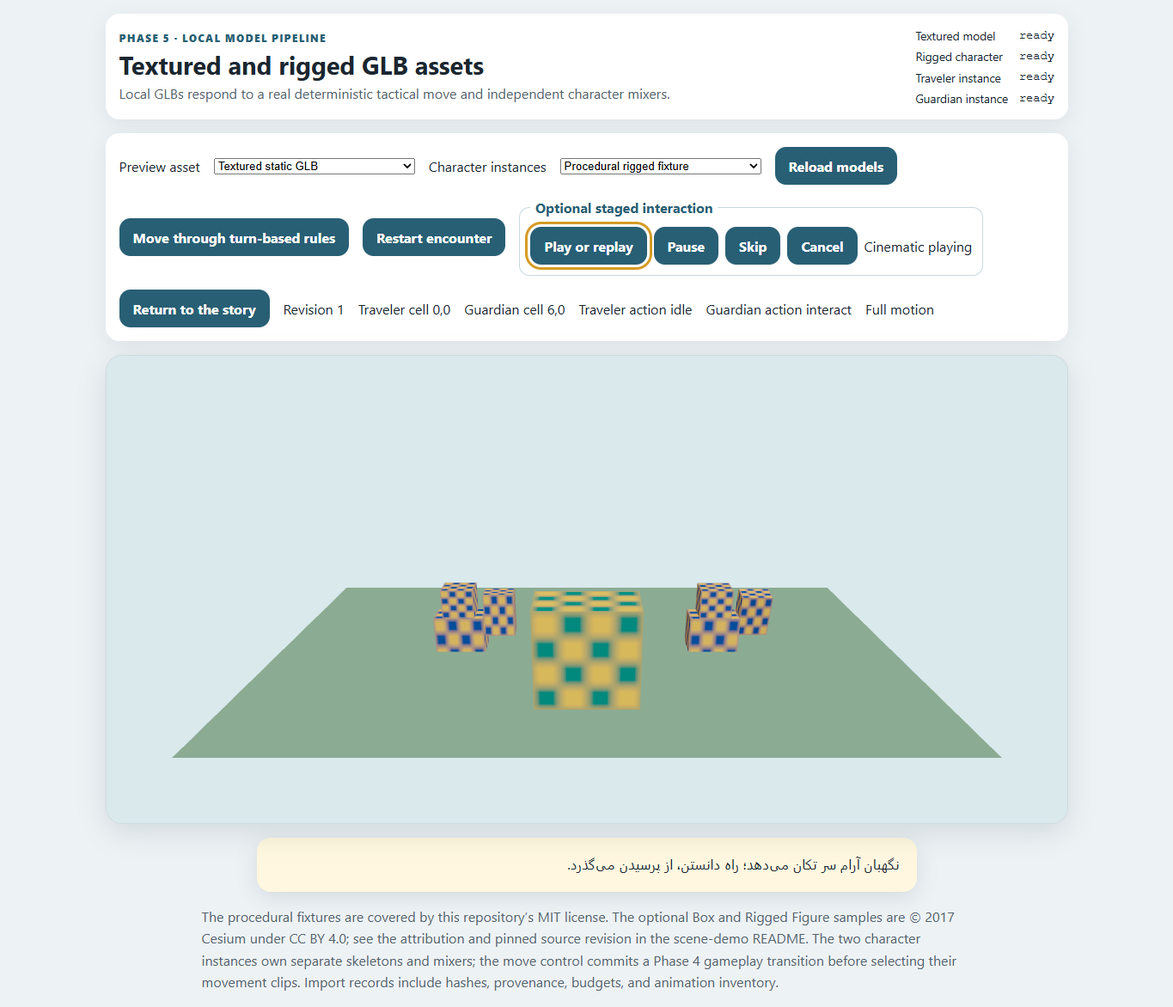
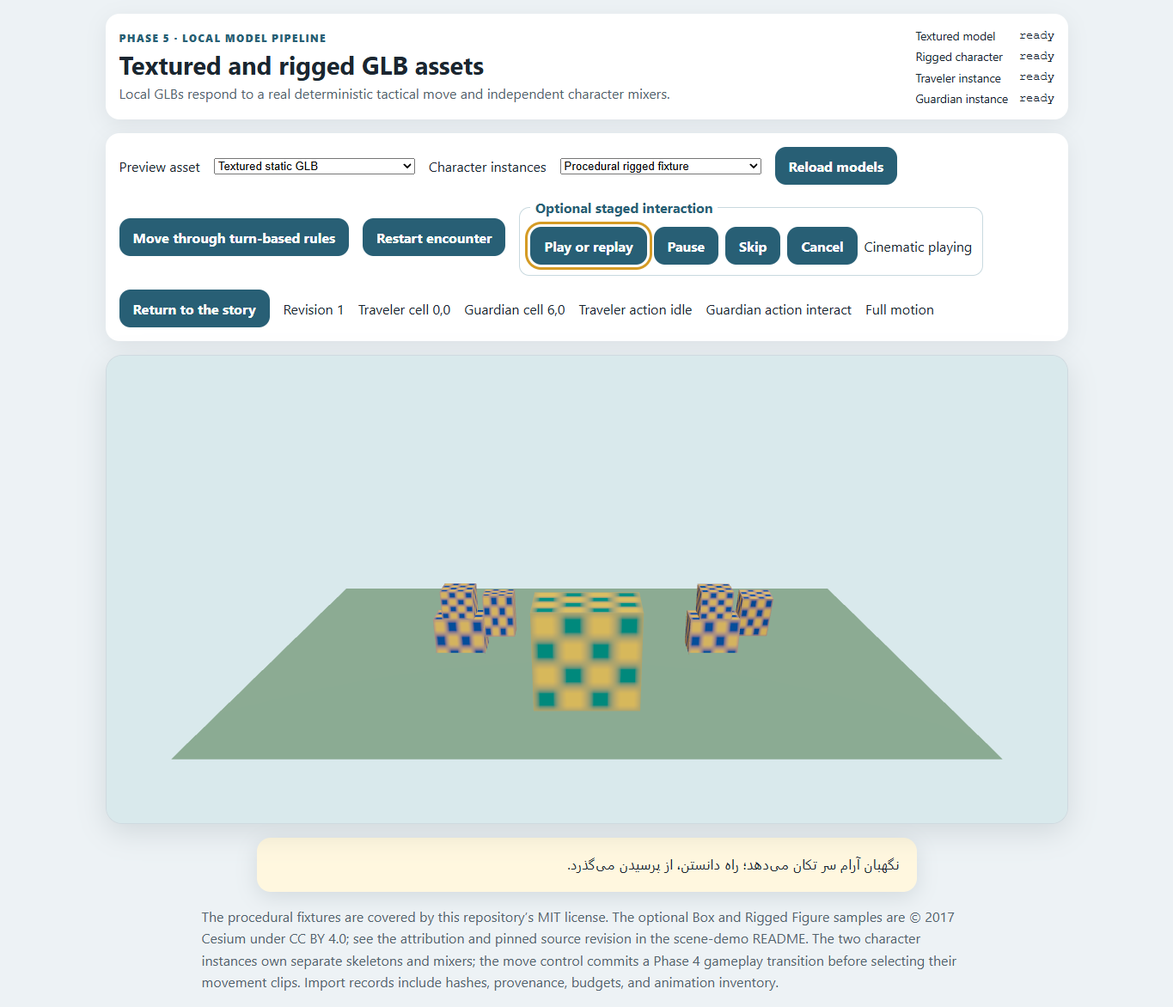
docs(framework): record Phase 5 acceptance evidence

Changed region(s): [[0.3692, 0.5836, 0.5538, 0.6451], [0.5846, 0.5836, 0.6769, 0.6451], [0.4615, 0.6758, 0.5231, 0.7065]]

diff --git a/docs/FRAMEWORK-ROADMAP.md b/docs/FRAMEWORK-ROADMAP.md
@@ -222,23 +222,27 @@ Dependency direction:
 
 ### Roadmap and gates
 
-| Phase                         | Status   | Deliverable                                                                                                                                                                                                                   | Prerequisite and exit evidence                                                                                                                                                                                    | Evidence                                                                                                                |
-| ----------------------------- | -------- | ----------------------------------------------------------------------------------------------------------------------------------------------------------------------------------------------------------------------------- | ----------------------------------------------------------------------------------------------------------------------------------------------------------------------------------------------------------------- | ----------------------------------------------------------------------------------------------------------------------- |
-| 1. Reusable core              | Complete | Build, test, version, pack and document the independent package. Migrate the app only after installed-tarball gate.                                                                                                           | All criteria in .plans/phase-1-library-extraction.md pass.                                                                                                                                                        | [PR #110](https://github.com/hmmftg/game-kids-turn-based-rpg/pull/110)                                                  |
-| 2. World/renderer             | Complete | Validate scene registration, map transitions, cameras, loading, runtime projection and resource lifecycle in `examples/scene-demo/`, a second 3D consumer that installs the core tarball. Renderer contracts remain deferred. | Pass isolated tarball install, type/unit/build checks and Chromium lifecycle smoke; prove two scenes, same-canvas transitions, load cancellation/failure, settled demand rendering, context recovery and cleanup. | [PR #111](https://github.com/hmmftg/game-kids-turn-based-rpg/pull/111)                                                  |
-| 3. Narrative/quests           | Complete | Implement the optional `waypoint-rpg-narrative` package and a Persian branching-story proof in the independent 3D consumer. Keep storage, scenes, movement, UI, and authored content consumer-owned.                          | P3.1–P3.6 gates pass: pure deterministic runtime, independent tarball, two endings, persisted scene consequence, reset/recovery safety, and application compatibility. This is not combat or a general renderer.  | [PR #113](https://github.com/hmmftg/game-kids-turn-based-rpg/pull/113)                                                  |
-| 4. Gameplay modules           | Complete | Add optional progression, inventory, equipment, abilities, status effects, tactical combat and enemy behavior from consumer needs. Keep real-time action combat independent.                                                  | Module tests pass; narrative remains independently consumable without a gameplay dependency.                                                                                                                      | [PR #116](https://github.com/hmmftg/game-kids-turn-based-rpg/pull/116); [29 gameplay tests](../packages/gameplay/test/) |
-| 5. Animation/cinematics       | Next     | Add a rig-preserving load path, per-instance skeleton/mixer, clips, blending, timelines, camera/dialogue staging, synchronized audio, effects and resource ownership.                                                         | 3D consumer proves cancellation, cleanup, reduced motion and idle behavior. Preserve the Kids RPG static GLB flow.                                                                                                | —                                                                                                                       |
-| 6. Developer tools            | Planned  | Add portable world, dialogue, quest, NPC, asset and timeline authoring after two consumers use relevant contracts.                                                                                                            | Both games can round-trip, validate and preview their own content. Keep Builder v1 compatible through transition.                                                                                                 | —                                                                                                                       |
-| 7. Shahnameh proof of concept | Planned  | Build خون سیاوش — فصل نخست: برگ خون with two environments, NPCs, branching dialogue, one meaningful moral choice, one battle, conditional world change, two outcomes and save/resume.                                         | Begin after the second 3D consumer validates rendering, narrative persistence and selected combat. Record packages used and omitted. Full editor tooling is optional.                                             | —                                                                                                                       |
+| Phase                         | Status   | Deliverable                                                                                                                                                                                                                   | Prerequisite and exit evidence                                                                                                                                                                                                           | Evidence                                                                                                                |
+| ----------------------------- | -------- | ----------------------------------------------------------------------------------------------------------------------------------------------------------------------------------------------------------------------------- | ---------------------------------------------------------------------------------------------------------------------------------------------------------------------------------------------------------------------------------------- | ----------------------------------------------------------------------------------------------------------------------- |
+| 1. Reusable core              | Complete | Build, test, version, pack and document the independent package. Migrate the app only after installed-tarball gate.                                                                                                           | All criteria in .plans/phase-1-library-extraction.md pass.                                                                                                                                                                               | [PR #110](https://github.com/hmmftg/game-kids-turn-based-rpg/pull/110)                                                  |
+| 2. World/renderer             | Complete | Validate scene registration, map transitions, cameras, loading, runtime projection and resource lifecycle in `examples/scene-demo/`, a second 3D consumer that installs the core tarball. Renderer contracts remain deferred. | Pass isolated tarball install, type/unit/build checks and Chromium lifecycle smoke; prove two scenes, same-canvas transitions, load cancellation/failure, settled demand rendering, context recovery and cleanup.                        | [PR #111](https://github.com/hmmftg/game-kids-turn-based-rpg/pull/111)                                                  |
+| 3. Narrative/quests           | Complete | Implement the optional `waypoint-rpg-narrative` package and a Persian branching-story proof in the independent 3D consumer. Keep storage, scenes, movement, UI, and authored content consumer-owned.                          | P3.1–P3.6 gates pass: pure deterministic runtime, independent tarball, two endings, persisted scene consequence, reset/recovery safety, and application compatibility. This is not combat or a general renderer.                         | [PR #113](https://github.com/hmmftg/game-kids-turn-based-rpg/pull/113)                                                  |
+| 4. Gameplay modules           | Complete | Add optional progression, inventory, equipment, abilities, status effects, tactical combat and enemy behavior from consumer needs. Keep real-time action combat independent.                                                  | Module tests pass; narrative remains independently consumable without a gameplay dependency.                                                                                                                                             | [PR #116](https://github.com/hmmftg/game-kids-turn-based-rpg/pull/116); [29 gameplay tests](../packages/gameplay/test/) |
+| 5. Animation/cinematics       | Complete | The independent 3D consumer imports static and genuinely rigged GLBs, runs per-instance/game-state animation, and stages an optional cancelable cinematic. Renderer integration remains example-owned.                        | Local assets and pinned external fixtures load without runtime network access; lifecycle/context recovery, reduced motion, screenshots, independent package consumers, Kids RPG asset/camera/PWA regressions, and `npm run verify` pass. | [Phase 5 execution evidence](../.plans/phase-5-model-animation-cinematics.md); [rendered previews](previews/phase5/)    |
+| 6. Developer tools            | Planned  | Add portable world, dialogue, quest, NPC, asset and timeline authoring after two consumers use relevant contracts.                                                                                                            | Both games can round-trip, validate and preview their own content. Keep Builder v1 compatible through transition.                                                                                                                        | —                                                                                                                       |
+| 7. Shahnameh proof of concept | Planned  | Build خون سیاوش — فصل نخست: برگ خون with two environments, NPCs, branching dialogue, one meaningful moral choice, one battle, conditional world change, two outcomes and save/resume.                                         | Begin after the second 3D consumer validates rendering, narrative persistence and selected combat. Record packages used and omitted. Full editor tooling is optional.                                                                    | —                                                                                                                       |
 
 This table is the source of truth for the generated README roadmap. Change a phase's status only when its exit criteria are met; after editing, run `npm run roadmap:sync`. Merging alone does not complete a phase.
 
 The five-game portfolio, asset catalog, capability matrix, execution dependencies, and release/evaluation rules live in `docs/PRODUCT-RELEASE-ROADMAP.md`. The current two-scene Garden sample and the Phase 4 scene-demo remain reference consumers, not portfolio releases. Proposed game names and stories remain proposals until approved.
 
-### Baseline evidence at Phase 5 planning
+### Phase 5 baseline and stabilization evidence
 
-Phase 4 merge `693aae689065d108e84b85a16c5651d625c29ab2` has successful Pages and roadmap-synchronization workflows. Its framework consumer and E2E shard 4 passed when inspected. E2E shards 1–3 were still running, so full post-merge E2E was not yet confirmed. The [Reference game screenshots workflow](https://github.com/hmmftg/game-kids-turn-based-rpg/actions/runs/45018058155) failed at step 5, **Check repository formatting**. Chromium installation, production build, screenshot capture, and gallery update were skipped. Track and diagnose this baseline independently before attributing a formatting failure to later documentation changes.
+The stabilization baseline was fetched `origin/main` at `1ae9946bd280caa6847e78d6a9b32180a3499ad8` (PR #119). Archived Actions run `45178399523` showed shards 1 and 3 failing the high-tier GLB exact-count assertion: the app correctly requested its 18-model high-tier warmup set while the test expected 7. Shards 2 and 4 passed. The same review identified a Node 22.0 gameplay-runtime smoke invocation that passed a snapshot where the codec requires a compiled definition, a stale Blood Leaf preview selector, and a roadmap workflow attempting to create a PR without permission. The local fixes are recorded in the Phase 5 execution plan; no post-fix GitHub run has been triggered because this branch was not pushed.
+
+The archived reference-screenshot workflow run [45018058155](https://github.com/hmmftg/game-kids-turn-based-rpg/actions/runs/45018058155) failed before browser setup at repository formatting. This was a pre-existing baseline issue, addressed by the earlier scoped formatting hygiene commits; it is separate from the PR #119 model-count regression. Roadmap synchronization remains protected-branch compatible: the default workflow emits a patch artifact and summary, with automatic PR creation only when repository owners explicitly enable `FRAMEWORK_ROADMAP_AUTOPR=true`. That live permission path is not verified from this local-only branch.
+
+Local acceptance on Node 22.23.5 now passes `npm run verify` (561 application tests, 15 core, 34 narrative, 29 gameplay, 9 model-import tests, all builds and package checks), all three installed package/scene consumer gates, the linked Vite development check, the production scene-demo browser suite, focused Kids RPG GLB and camera checks, and the PWA offline suite. The independent scene consumer uses pinned local GLB fixtures and produces source-rendered Chromium previews. The exact commands and limitations are recorded in `.plans/phase-5-model-animation-cinematics.md`. These results establish the implementation gates locally; remote CI remains pending a later PR run.
 
 ## Compatibility, policy and risks
 

diff --git a/.plans/phase-5-model-animation-cinematics.md b/.plans/phase-5-model-animation-cinematics.md
@@ -159,7 +159,7 @@ The implementation branch begins from the latest fetched `main`. Commit P5.0 thr
 - `npm run verify` passed after P5.0: all 506 application tests, core/narrative/gameplay package tests and builds, narrative tarball consumer, typechecks, content/assets/budget/deploy validation, and all three example builds.
 - `npm run framework:scene-consumer` passed the offline core+narrative tarball install, typecheck, unit tests, Vite build, and Chromium lifecycle smoke.
 - `npm run framework:watch:check` passed cold/warm linked builds, Vite's default linked-ESM resolution, multi-package HMR, error preservation, and recovery. No Vite resolver override is configured.
-- Phase 5 is marked In progress in the canonical roadmap. The contract intentionally remains private to the independent example until another consumer proves a stable renderer API.
+- At the P5.0 checkpoint, Phase 5 remained In progress and the adapter stayed private to the independent example. After the later milestones and stabilization gates below passed, the canonical roadmap was updated to Complete; no public renderer package was inferred from this single consumer.
 
 ### P5.1 — local model import and runtime loading
 
@@ -185,14 +185,25 @@ The implementation branch begins from the latest fetched `main`. Commit P5.0 thr
 - Added `src/presentation/timeline.ts` as a dependency-free example-side timeline definition compiler/player. It validates stable cue IDs, cue ordering, durations and camera/action/dialogue/audio cue data; execution is deterministic, cues are emitted once, and state supports play/replay, pause/resume, skip, and cancel. Authored cue objects and arrays are cloned/frozen; timeline state is transient and never writes narrative/gameplay state.
 - Added an actual R3F camera stage, an imported-guardian interaction clip, and a Persian RTL DOM dialogue cue to `?phase5=assets`. Keyboard-operable controls cover play/replay, pause/resume, skip and cancel. Cancellation restores camera framing and idle poses; Canvas unmount cancels the active sequence. Reduced motion applies all cues in order on one rendered frame, so meaning remains while interpolation is removed. Audio cue records are supported by the timeline contract, but this example has no reviewed sound asset and therefore does not author playback audio.
 - Timeline unit tests passed (5/5), scene-demo typecheck passed, and `npm run example:scene-build` passed (existing >500KB Three.js chunk advisory). Production Chromium `npm --prefix examples/scene-demo run test:e2e` passed with keyboard playback/pause/resume/skip/cancel, camera movement and restoration, Persian RTL captions, reduced motion, existing story/persistence checks, and model load/cancel/retry/remount checks. Two earlier smoke attempts exposed test timing assumptions (controls can reflow and cue batches process on the next demand frame); the test now uses keyboard activation and waits for the actual cue/camera commit. No runtime defect remained.
-- P5.3 includes a real rendered sequence. P5.4 has now added and browser-tested a pinned external static/rigged asset pair, context recovery, and renderer-memory bounds. The P5.4 gate remains open for committed source-rendered cinematic/model screenshots and the Kids RPG PR #119 regression acceptance.
+- P5.3 includes a real rendered sequence. P5.4 added and browser-tested a pinned external static/rigged asset pair, context recovery, and renderer-memory bounds. The later stabilization record below closes the screenshot and focused Kids RPG PR #119 regression gates.
 
-### P5.4 — external assets and lifecycle acceptance (in progress)
+### P5.4 — external assets and lifecycle acceptance (complete; local verification)
 
[1 lines of base64/hex data omitted]
 - The real Rigged Figure has one skin with 19 joints and an unnamed 57-channel animation. That revealed a deterministic importer defect: metadata called the clip `clip-1`, but the written GLB retained the empty name, so the runtime semantic mapping could not resolve it. The importer now writes the stable generated name into the GLB; the actual-file regression test verifies the named 57-channel animation and skin.
 - Production Chromium now loads both external assets, checks the renamed animation, selects the external rigged asset for both game characters and confirms their `Skeleton` instances are distinct, then switches back to the four-clip fixture used for game-state and timeline checks. It also forces WebGL context loss, recovers through a user-visible control, reloads the scene during a cinematic (which cancels it), and performs three further Canvas remount cycles.
 - The renderer memory probe is sampled after a warmed render. In Chromium/SwiftShader it recorded 4 geometries and 5 textures before the three repeated remounts and the same 4/5 afterward. This is a bounded lifecycle result for that headless environment only; it is not a physical-device performance claim.
-- `npm --prefix examples/scene-demo run test:e2e` passed the combined narrative/save/model/animation/timeline/context/reload path. The local static and rigged GLBs produced no external asset requests. Kids RPG PR #119 regressions and full verification remain outstanding.
-- Added `npm run sample:phase5:previews`, which production-builds the consumer and captures actual Chromium screenshots only when the scene-demo runtime source is committed. `docs/previews/phase5/provenance.json` records source commit `5e55776fe77cff7dd5fc55925cf2ba6678c10920`, headless Chromium/SwiftShader, viewport 1365×1000, both asset hashes/licenses, and PNG hashes. The two checked images show the real external static/rigged models and the Persian staged interaction. The screenshot capture passed after the committed-runtime check.
-- P5.4 remains in progress: high/very-high Kids RPG hub warmup, cold/missing/network/offline asset conditions, camera device coverage, and the existing GLB exact-count Playwright regression still need focused investigation before final roadmap status.
+- `npm --prefix examples/scene-demo run test:e2e` passed the combined narrative/save/model/animation/timeline/context/reload path. The local static and rigged GLBs produced no external asset requests. Focused Kids RPG regression tests and full repository verification were subsequently completed as recorded below.
+- `npm run sample:phase5:previews` production-built the consumer and captured actual Chromium screenshots from committed scene-demo source. `docs/previews/phase5/provenance.json` records source commit `0e89ee3fd3ca035da3b51c5fed1e8886abaffdb2`, headless Chromium/SwiftShader, viewport 1365×1000, both asset hashes/licenses, and the refreshed PNG hashes. The images show the external static/rigged asset route and the Persian staged interaction.
+
+### Post-merge stabilization — CI, warmup, camera, and final acceptance
+
+- Reviewed the archived PR #119 baseline workflow `45178399523`. E2E shards 1 and 3 failed only because `e2e/gltf.spec.ts` expected 7 high-tier assets while the committed high-tier warmup requested 18; shards 2 and 4 passed. Updated the test to assert the full authored warmup set. The original Node 22.0.0 gameplay smoke argument and stale Blood Leaf preview path were repaired in commit `f0fe59cbfe83a69e29aad11cfc92142c284cb1aa`. The roadmap workflow now defaults to the repository's protected-branch-safe patch artifact/summary path; auto-PR mode remains an explicit repository-owner opt-in.
+- Fixed the hub GLB warmup so a cached loader error is treated as settled, allowing the existing per-model fallback rather than holding startup for the timeout. The fail-open deadline is 12 seconds for a genuinely stalled request. Focused browser tests cover cold high- and very-high-tier requests held until completion, a 404 with other models still rendering, offline-aborted model requests, persisted quality-tier changes, and context loss followed by reload. The test also checks the exact 18-model high-tier request set and excludes lower-tier startup-detection noise.
+- Camera tests now wait until the follow camera has reached the actual spawn before sampling its orbit probe. The touch regression dispatches touch-typed pointer events on the rendered canvas to verify one-finger pan and two-finger zoom in the landscape and portrait mobile Playwright projects. These are browser-emulated input checks, not physical-device certification.
+- Cleared scene-demo lint findings in the model instance, cinematic player, GLB validator, and browser capture scripts without changing game logic. The current-props identity guard continues to suppress stale model leases. Removed the tracked generated `verify-main.log` and added an ignore rule. A Windows-only intermittent `ENOTEMPTY` during test fixture cleanup was reproduced in the full importer suite; `withTempDirectory` now retries transient recursive-removal errors, and the complete importer suite passes 9/9.
+- Final verification ran on Node `v22.23.5`. `npm run verify` passed: Prettier, roadmap check, ESLint, model import tests (9), framework boundaries/builds, core tests (15), narrative tests (34), gameplay tests (29), narrative tarball consumer, typecheck, application Vitest (59 files / 561 tests), content and asset validation, bundle budgets, deploy-shape check, and hello-world/scene-demo production builds. Existing non-blocking advisories remain: 48 draft-content warnings, 5 placeholder-asset warnings, and large Three.js/example chunks; shipped budgets and deploy validation passed.
+- `npm run framework:consumer` passed the isolated core tarball inventory/install, NodeNext and Bundler declarations, Vite build, Chromium consumer, and current-runtime ESM/source-map probe. `npm run framework:gameplay-consumer` passed the 33-file gameplay tarball consumer with NodeNext, Bundler, and offline package installation. `npm run framework:scene-consumer` passed locked development-tool installation followed by offline installation of the core, narrative, and gameplay archives, scene-demo typecheck, unit tests, production build, and Chromium lifecycle/model smoke. `npm run framework:watch:check` passed cold/warm watch builds, default Vite ESM resolution, edits across core and narrative, preservation of last-good output on injected compile errors, and recovery.
+- Focused Kids RPG browser checks passed: `npx playwright test e2e/gltf.spec.ts --project=landscape-mobile` (12 tests); `npx playwright test e2e/camera.spec.ts --grep "right-drag|touch drag"` (4 tests across landscape/portrait mobile projects); and `npx playwright test e2e/pwa.spec.ts --project=landscape-mobile` (3 tests, including a cold start fully offline). Scene-demo animation unit tests passed 26 tests across 5 files, and `npm --prefix examples/scene-demo run test:e2e` passed the production Chromium narrative, model, independent mixer, cinematic, cleanup, and context-recovery journey. `npm run sample:phase5:previews` passed and refreshed both source-rendered captures and provenance.
+- Local milestone commits, in dependency order: P5 CI repair `f0fe59cbfe83a69e29aad11cfc92142c284cb1aa`; model/animation lifecycle `2f007e72e89201f660042b979d994c49c317565e`; cinematic and external GLB verification `a0fa59b0779dfc9788e957164d773794ac040d1d`; screenshot capture `5e55776fe77cff7dd5fc55925cf2ba6678c10920`; preview evidence `3defdc2654f1bcd98d2ea69c2eedb764f8b4a7bd`; hub warmup fix `52dd36905f4ffaa344bf80ad264ff78193511ec6`; camera coverage `3507581e4ca1c6769164a9e052445d4ec1da368`; scene-demo lint fixes `68424b7752fca19e3fa077d0464e1d6f7551b564`; importer-test cleanup retry `b7708e502fcffefd7e0991281a39da787eac369d`; generated-log removal `0e89ee3fd3ca035da3b51c5fed1e8886abaffdb2`; and explicit very-high cold-cache coverage `4ebd4415c68584f18abfa808486bcdf9ebf571c5`.
+- The specified Phase 5 implementation gates are satisfied locally and the work is ready for PR review. GitHub Actions has not been rerun on these unpushed commits: the Node 22.0.0 runtime probe, the full four-shard application E2E suite, and the repository's roadmap workflow should be observed in PR CI. No physical-device camera/performance result is claimed. Phase 6 tooling, arbitrary-rig retargeting, FBX/OBJ/Blender conversion, runtime external `.gltf` resources, audio playback cues, and release/publication remain deferred.

diff --git a/README.md b/README.md
@@ -16,7 +16,7 @@ microphone, geolocation or device identifiers. Progress lives only in the browse
 
 ## Framework roadmap
 
-**4/7 phases completed** · Next: **Phase 5 — Animation/cinematics** · [Full roadmap and exit gates](docs/FRAMEWORK-ROADMAP.md)
+**5/7 phases completed** · Next: **Phase 6 — Developer tools** · [Full roadmap and exit gates](docs/FRAMEWORK-ROADMAP.md)
 
 ```mermaid
 flowchart LR
@@ -24,8 +24,7 @@ flowchart LR
   classDef complete fill:#dcfce7,stroke:#15803d,color:#14532d
   classDef next fill:#fef3c7,stroke:#b45309,color:#78350f
   classDef planned fill:#e5e7eb,stroke:#6b7280,color:#1f2937
-  class P1,P2,P3,P4 complete
-  class P5 next
+  class P1,P2,P3,P4,P5 complete
   class P6,P7 planned
 ```
 
@@ -35,7 +34,7 @@ flowchart LR
 | 2. World/renderer | ✅ Complete | [PR #111](https://github.com/hmmftg/game-kids-turn-based-rpg/pull/111) |
 | 3. Narrative/quests | ✅ Complete | [PR #113](https://github.com/hmmftg/game-kids-turn-based-rpg/pull/113) |
 | 4. Gameplay modules | ✅ Complete | [PR #116](https://github.com/hmmftg/game-kids-turn-based-rpg/pull/116); [29 gameplay tests](../packages/gameplay/test/) |
-| 5. Animation/cinematics | ➡ Next | — |
+| 5. Animation/cinematics | ✅ Complete | [Phase 5 execution evidence](../.plans/phase-5-model-animation-cinematics.md); [rendered previews](previews/phase5/) |
 | 6. Developer tools | ⏳ Planned | — |
 | 7. Shahnameh proof of concept | ⏳ Planned | — |
 
